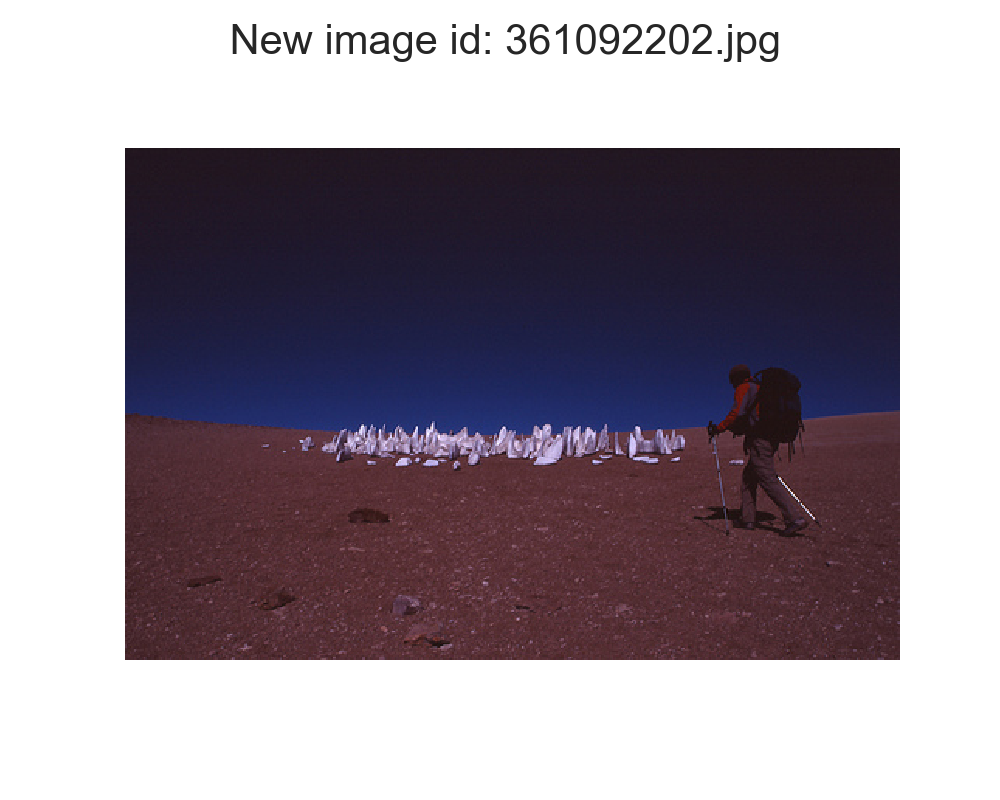
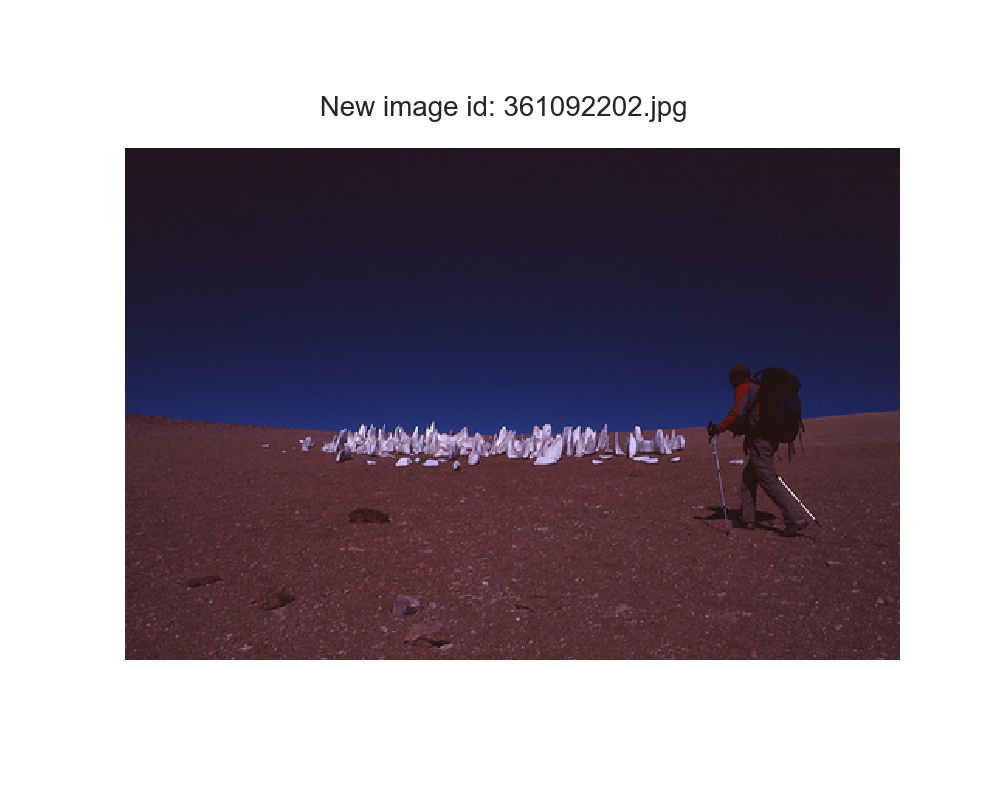
smaller title size figure

Changed region(s): [[0.217, 0.0312, 0.775, 0.0938], [0.31, 0.125, 0.682, 0.1562]]

diff --git a/include/search_engine/load_engine/search_engine.py b/include/search_engine/load_engine/search_engine.py
@@ -426,8 +426,8 @@ class SearchEngine:
     def print_captions(self,
                        image_dir=None,
                        figsize=(10, 8),
-                       title_fontsize=30,
-                       title_y=0.97,
+                       title_fontsize=20,
+                       title_y=0.88,
                        title_x=0.5):
 
         # TODO FIX UPPER TITLE
